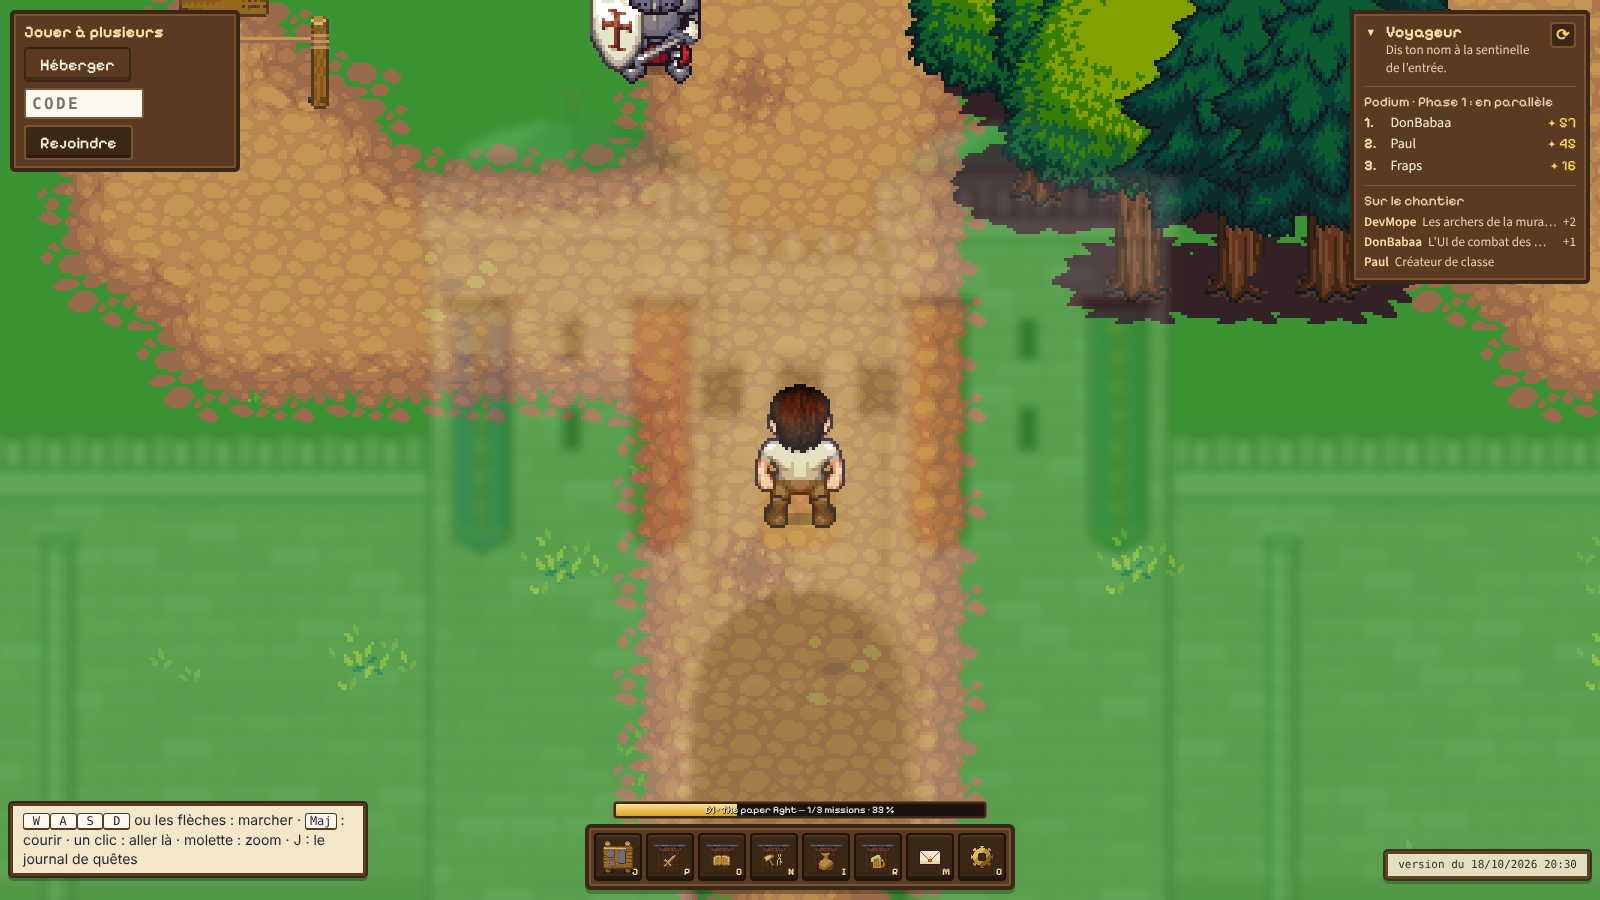
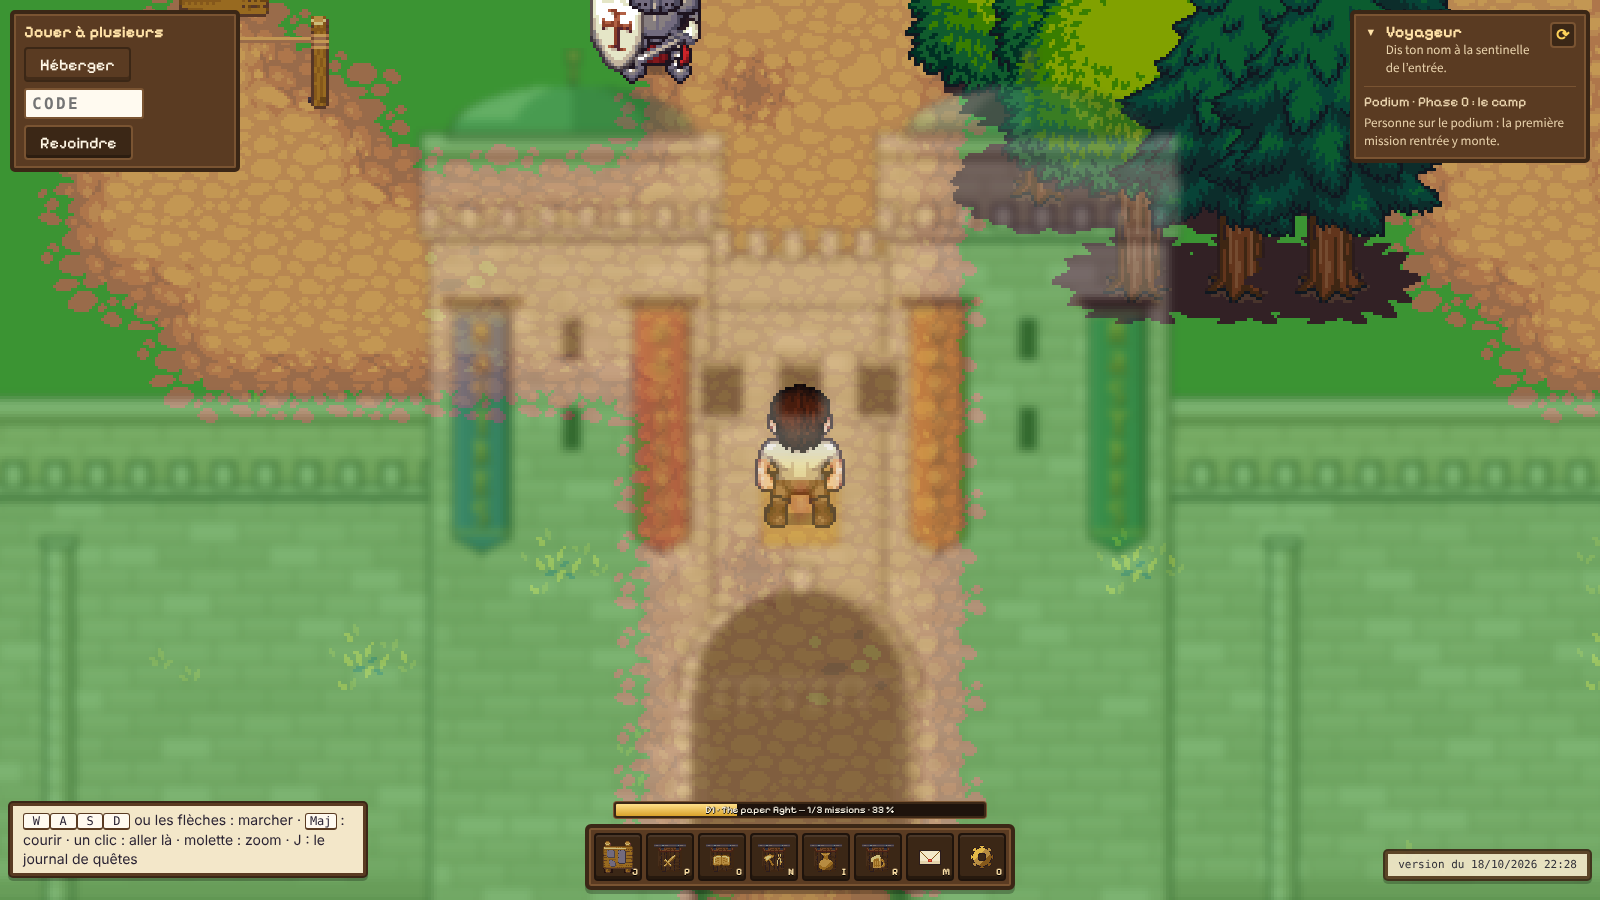
L'entrée du camp : le chemin de ronde vu de dessus
Le sol du chemin de ronde et du dessus des tours est en dalles, vu un peu de dessus, avec un rebord bas et des créneaux courts devant : on verra presque les pieds des archers (#124), pour le relief. Captures du jeu mises à jour ; la maquette avec des archers provisoires (MAQUETTE=dossier) montre l'effet.

Suite de la mission #123 (la porte du camp)

diff --git a/design/camp/outils/muraille.py b/design/camp/outils/muraille.py
@@ -5,8 +5,10 @@
 #   public/assets/lpc/brasero.png    un brasero, 4 images de flamme
 #   src/data/muraille.json           où le jeu pose ces pièces (pixels du monde)
 # Lancer depuis la racine du dépôt : python3 design/camp/outils/muraille.py   (Pillow)
+# MAQUETTE=dossier : dessine aussi des archers de passage (l'éclaireuse du terrain d'entraînement) sur le chemin de ronde,
+# et écrit les images dans ce dossier au lieu du jeu (pour montrer le design avant les vrais archers, #124).
 from PIL import Image
-import json, random
+import json, os, random
 random.seed(7)
 
 T, COLS, ROWS = 32, 42, 38
@@ -133,24 +135,62 @@ def banniere(x, y, h, coul, mot='MASTRES'):
                     px[x + 7 + i, gy + j] = (OR1 if j < 4 else OR0) + (255,)
                     if px[x + 8 + i, gy + j + 1][:3] == coul: px[x + 8 + i, gy + j + 1] = sombre + (255,)
 
-def tour(x, base, w, haut, toit=True, fentes=2, ban=None):
-    prof = 22
+MAQUETTE = os.environ.get('MAQUETTE')
+if MAQUETTE:
+    _arch = Image.open(LPC + 'entrainement/eclaireuse.png').convert('RGBA')
+    ARCHER = [_arch.crop((3 * 64, 18 * 64, 4 * 64, 19 * 64)), _arch.crop((5 * 64, 2 * 64, 6 * 64, 3 * 64))]
+# Un archer debout sur le sol du chemin de ronde : au milieu des dalles (pas sur le rebord), avec son ombre posée sur
+# les dalles ; le rebord et les merlons, dessinés après, cachent le bas de ses jambes.
+def archer(x, pied, salue=False):
+    if not MAQUETTE: return
+    ombre = Image.new('RGBA', (22, 6), (0, 0, 0, 0))
+    po = ombre.load()
+    for j in range(6):
+        for i in range(22):
+            if ((i - 10.5) / 11) ** 2 + ((j - 2.5) / 3) ** 2 <= 1: po[i, j] = (60, 44, 30, 90)
+    coller(ombre, x - 11, pied - 4)
+    coller(ARCHER[salue], x - 32, pied - 61)
+
+# Le sol d'un chemin de ronde vu un peu de dessus (demande de Mope, 18 oct : « voir le sol de l'étage … pour donner du
+# relief ») : des dalles, plus claires au fond (la lumière vient d'en haut), un petit mur bas derrière, côté camp.
+DAL0, DAL1, DAL2, DAL3 = (226, 214, 188), (206, 192, 164), (182, 168, 142), (138, 124, 104)   # les dalles, plus chaudes que le mur
+def dalles(x, y, w, h):
+    cadre(x, y - 6, w, 7, S1); r(x + 1, y - 5, w - 2, 1, S0)                       # le petit mur du fond
+    r(x, y, w, h, DAL1); r(x, y, 1, h, OUT); r(x + w - 1, y, 1, h, OUT)
+    r(x + 1, y + 1, w - 2, 3, DAL3)                                                # son ombre portée sur le sol
+    for k, j in enumerate(range(y + 4, y + h, 6)):
+        fond = j < y + h // 2                                                      # au fond, plus clair (la lumière d'en haut)
+        dec = 0 if k % 2 else 9
+        for i in range(x + 1 + dec - 18, x + w - 1, 18):
+            i0, i1 = max(i, x + 1), min(i + 17, x + w - 1)
+            if i1 - i0 < 2: continue
+            r(i0, j, i1 - i0, 5, DAL0 if fond else DAL1)
+            r(i0, j, i1 - i0, 1, (240, 232, 212) if fond else DAL0)
+            r(i1, j, 1, 5, DAL2)
+        r(x + 1, j + 5, w - 2, 1, DAL2)
+# Le devant : un rebord bas, et des merlons courts : entre eux, on voit le sol, presque jusqu'aux pieds des archers.
+def rebord(x, y, w, pas=14):
+    cadre(x, y, w, 5, S1); r(x + 1, y + 1, w - 2, 1, S0)
+    merlons(x, y + 1, w, pas=pas, mh=8, mw=8)
+
+def tour(x, base, w, haut, toit=True, fentes=2, ban=None, gardes=()):
+    prof = 30
     maconnerie(x, base - haut, w, haut)
     r(x, base - haut, w, 1, OUT); r(x, base - 1, w, 1, OUT); r(x, base - haut, 1, haut, OUT); r(x + w - 1, base - haut, 1, haut, OUT)
     r(x + 1, base - 7, w - 2, 6, S3)
-    cadre(x - 3, base - haut - prof, w + 6, prof - 5, S2)                 # le dessus de la tour (là où se tiendra l'archer, #124)
-    if toit: dome(x + w // 2, base - haut - prof - 2, w // 2 - 8, 16)
-    cadre(x - 3, base - haut - 9, w + 6, 10, S1); r(x - 2, base - haut - 8, w + 4, 2, S0)   # le parapet devant
-    merlons(x - 3, base - haut - 8, w + 6, pas=13)
+    dalles(x - 3, base - haut - prof, w + 6, prof - 4)                    # le dessus de la tour (là où se tiendra l'archer, #124)
+    if toit: dome(x + w // 2, base - haut - prof - 6, w // 2 - 8, 16)
+    for gx, s in gardes: archer(x + gx, base - haut - 12, s)
+    rebord(x - 3, base - haut - 5, w + 6, pas=13)
     debut = 98 if ban else 26
     for k in range(fentes): fente(x + w // 2 - 3, base - haut + debut + k * 30)
     if ban: banniere(x + w // 2 - 10, base - haut + 8, 78, ban)
 
-def courtine(a, b, base, hm):
-    # le chemin de ronde (vu de dessus), puis le parapet crénelé devant, puis la façade et ses contreforts
-    cadre(a, base - hm - 22, b - a, 14, S2); r(a + 1, base - hm - 21, b - a - 2, 2, S3)
-    cadre(a, base - hm - 10, b - a, 11, S1); r(a + 1, base - hm - 9, b - a - 2, 2, S0)
-    merlons(a, base - hm - 10, b - a)
+def courtine(a, b, base, hm, gardes=()):
+    # le chemin de ronde (son sol vu de dessus), les archers, puis le rebord crénelé devant, puis la façade et ses contreforts
+    dalles(a, base - hm - 28, b - a, 24)
+    for gx, s in gardes: archer(gx, base - hm - 13, s)
+    rebord(a, base - hm - 5, b - a)
     maconnerie(a, base - hm, b - a, hm)
     r(a, base - hm, b - a, 1, OUT); r(a, base - 1, b - a, 1, OUT); r(a, base - 8, b - a, 7, S3)
     for xx in range(a + 40, b - 30, 4 * T): contrefort(xx, base, hm - 16)
@@ -158,14 +198,14 @@ def courtine(a, b, base, hm):
 porte_g, porte_d = cx - 2 * T - 52, cx + 2 * T + 52
 for xa in (-10, W - 70):                                       # les tours d'angle, à moitié dans la forêt
     tour(xa, BASE + 4, 80, HM + T, toit=True, fentes=1)
-courtine(60, porte_g, BASE, HM)
-courtine(porte_d, W - 60, BASE, HM)
+courtine(60, porte_g, BASE, HM, gardes=[(6 * T, False)])
+courtine(porte_d, W - 60, BASE, HM, gardes=[(27 * T + 16, True)])
 for col, ban in [(24, (194, 65, 47)), (31, (47, 104, 184)), (38, (142, 92, 194))]:   # les 3 tours de guet, côté droit
     tour(col * T - 8, BASE + 6, 2 * T + 16, HM + 2 * T, fentes=2, ban=ban)
 
 # la grande porte : deux tours à dôme vert, la galerie à trois baies, l'écusson à la flamme, la voûte et sa herse relevée
-for xt in (porte_g - 8, porte_d - 3 * T + 8):
-    tour(xt, BASE + 10, 3 * T, HP, fentes=2)
+for xt, g in ((porte_g - 8, [(48, True)]), (porte_d - 3 * T + 8, [(48, False)])):
+    tour(xt, BASE + 10, 3 * T, HP, fentes=2, gardes=g)
 gx0, gx1 = porte_g - 8 + 3 * T, porte_d - 3 * T + 8
 hc = HM + 2 * T
 maconnerie(gx0, BASE - hc, gx1 - gx0, hc); r(gx0, BASE - hc, gx1 - gx0, 1, OUT)
@@ -215,14 +255,15 @@ for k in range(4):
 
 # ---------------- sortie : on découpe chaque calque à ce qu'il contient
 haut_mur = mur.getbbox()[1]
-mur.crop((0, haut_mur, W, D1 + 6)).save(LPC + 'muraille.png', optimize=True)
+SORTIE = (MAQUETTE + '/') if MAQUETTE else LPC
+mur.crop((0, haut_mur, W, D1 + 6)).save(SORTIE + 'muraille.png', optimize=True)
 haut_sol = sol.getbbox()[1]
-sol.crop((0, haut_sol, W, H)).save(LPC + 'douves.png', optimize=True)
-bras.save(LPC + 'brasero.png', optimize=True)
+sol.crop((0, haut_sol, W, H)).save(SORTIE + 'douves.png', optimize=True)
+bras.save(SORTIE + 'brasero.png', optimize=True)
 pos = {
     'muraille': {'y': haut_mur, 'pied': BASE},
     'douves': {'y': haut_sol},
     'braseros': [[cx - 70, D1 + 14], [cx + 70, D1 + 14]],   # [milieu, haut] de chaque brasero ; son pied est 38 px plus bas
 }
-open('src/data/muraille.json', 'w').write(json.dumps(pos) + '\n')
+open(SORTIE + 'muraille.json' if MAQUETTE else 'src/data/muraille.json', 'w').write(json.dumps(pos) + '\n')
 print('muraille', mur.width, D1 + 6 - haut_mur, 'à y =', haut_mur, '; douves à y =', haut_sol)

diff --git a/GAME_SPEC.md b/GAME_SPEC.md
@@ -156,7 +156,7 @@ Moved into scope on 17 Oct: Paolitus's training mini-game, as a **turn-based** r
 | 18 Oct | **The training ground together (#80):** a camp group enters together (E at the door; the camp host becomes the training host, same code). Lobby: each player takes one or more hero places and picks their classes; the host picks the turn mode, starts, and plays the places nobody took. In the fight the host holds the rules and dice; the others send their actions; each plays only their own heroes and sees the others' pointer with what they prepare (the combo shows before it is played). The heroes' phase ends when everyone with a hero standing has said "ready"; no undo then (`FIGHT_RULES.md`, "A turn"). A friend who leaves: the host plays their heroes until they are back; the host leaves: everyone carries on alone | Paul (Paolitus): « si on est dans une session multi on peut entrer dans le lobby à plusieurs et choisir sa classe » | |
 | 18 Oct | **Health bars over heads** at the training ground: name and health of each creature, V for the enemies, Shift+V for the allies, off until asked, remembered in the browser | Paul (Paolitus): « une barre de vie/name plates activables avec V pour les ennemis et shift V pour les alliés » | |
 | 18 Oct | **The Deadlock radio at the camp (#94):** a new NPC, the bard, sits by the fire (west side) with a medieval lyre and a speaker that plays DEADLOCK RECORDS RADIO, exported from Mastres Racing (engine unchanged). Heard everywhere in the camp, louder near the speaker (full within 2.5 squares, 18 % beyond 15); live on the world clock; starts at the first gesture and keeps playing in a hidden tab (no jump on return); E or a click on the bard: previous song, next song, off. In a camp group everyone hears the host's radio (his clock and skips), and a song skipped by anyone is skipped for the whole group. The 27 tracks (94 MB) are in the repo and online, with the band's agreement; ElevenLabs voices credited. The bard's lines and look are provisional | Paul (Paolitus): « Arrivée radio deadlock sur le camp […] designer un nouveau perso : barde avec une lyre médiévale et une enceinte à côté de lui qui diffuse les sons » ; près du feu, plus fort près du barde, les mp3 dans le repo | the Settings menu (music, effects) is #95 |
-| 18 Oct | **The camp's entrance (#123), built:** the camp grows 10 rows south (42 × 38) for a white stone wall (4 squares high, 3 watchtowers on the right only), a great gate at the end of the path (two domed towers, an arch, the portcullis up), a moat with a lowered drawbridge, and a paved road. Once through the gate the wall fades with distance: nearly sharp and 70 % opaque right behind it, blurrier and fainter further north, gone 9 squares from its foot, back the same way when coming closer (Mope, 18 Oct: « quasi pas de floue collé à la muraille … jusqu'à disparaitre »). Four LPC archers (one per gate tower, one on each side of the wall) salute every hero going in or out. The forest wraps the wall's ends. Banners read « MASTRES » vertically in gothic letters. Mock-up v4, validated by Mope, in `CAMP.fr.md` §4. In the game: the wall, gate, moat, bridge, road and braziers (`src/32_muraille.js`, art from `design/camp/outils/muraille.py`); the archers come with #124 | Mope: « une entrée majestueuse, un peu comme la cité de Minas Tirith » ; « de l'eau et un pont levis » ; « 3/4 [archers] suffisent » ; « la muraille se floute/devient fantôme » ; « MASTRES » sur les bannières ; « design validé » ; for the enlargement: « c'est moi qui te dit si t'as le droit ou pas » (Mope decides for the camp) | no |
+| 18 Oct | **The camp's entrance (#123), built:** the camp grows 10 rows south (42 × 38) for a white stone wall (4 squares high, 3 watchtowers on the right only), a great gate at the end of the path (two domed towers, an arch, the portcullis up), a moat with a lowered drawbridge, and a paved road. Once through the gate the wall fades with distance: nearly sharp and 70 % opaque right behind it, blurrier and fainter further north, gone 9 squares from its foot, back the same way when coming closer (Mope, 18 Oct: « quasi pas de floue collé à la muraille … jusqu'à disparaitre »). Four LPC archers (one per gate tower, one on each side of the wall) salute every hero going in or out. The forest wraps the wall's ends. Banners read « MASTRES » vertically in gothic letters. The wall walk and the tower tops are seen slightly from above (a flagstone floor, a low ledge, short crenels) so the archers stand on a visible floor (Mope, 18 Oct: « voir le sol de l'étage … impression de 3D »). Mock-up v4, validated by Mope, in `CAMP.fr.md` §4. In the game: the wall, gate, moat, bridge, road and braziers (`src/32_muraille.js`, art from `design/camp/outils/muraille.py`); the archers come with #124 | Mope: « une entrée majestueuse, un peu comme la cité de Minas Tirith » ; « de l'eau et un pont levis » ; « 3/4 [archers] suffisent » ; « la muraille se floute/devient fantôme » ; « MASTRES » sur les bannières ; « design validé » ; for the enlargement: « c'est moi qui te dit si t'as le droit ou pas » (Mope decides for the camp) | no |
 | 18 Oct | **The training ground's combat UI from the mockups (#129, design in `design/ui-combat/`, #113):** the abilities bar shows each ability's LPC icon, action or bonus, and its hit damage (or what it does); hovering an ability in the bar, or choosing it, opens its sheet above the bar, with no target needed: miss, graze, hit and critical damage and the d20 that lead to each, range, area, cost, d20 bonus and effects (#85); hovering a creature with an attack chosen shows a target card with the chances of each result in % and their damage. The bar, the sheet and the target card are dark wood; the hero cards keep parchment, with health and resource on one line. Zoom (#83) and dialogue skipping (#84) are not in it | the owner: « pourquoi je la vois pas implémentée in game ? … code le truc » ; the mockups he approved (#113) | |
 | 18 Oct | **Ability effects in the training ground's fights (#134):** the 42 bricks of the animation library (#127) play in combat as sprites placed by their anchor: projectiles (Spark, Fire Arrow, arrows, Splash, Oil Flask, notes, the mocking bubble), impacts, weapon trails (slash, heavy slash, thrust), the lightning strike, spreading puddles and ice spikes, the rain cloud, healing crosses and light columns, the rally ring; and the states loop on the creatures while they last (Soaked, Oiled, Burning, Frozen, Exposed, Prone, Inspired). The attack scene lasts until the hit lands, so the damage numbers show on impact. Enemies use the same arrows and slashes | the owner: « pourquoi les effets/animations qu’on a créé ne sont pas ingame ? push ça » | |
 | 19 Oct | **How the base game plays (the prototype):** no free exploration. A run goes **straight from fight room to fight room**, Slay the Spire style (a map of rooms, each one a fight arena), and **short cutscenes link the rooms and the levels**. The fight is the training ground's system (without squares, `FIGHT_RULES.md` « On trial »); the training ground stays the draft where the system is tried. **Every level has its own design and identity** (tiles, layout, enemies, light), never the training ground renamed. The base game is entered from the camp through a **dedicated entrance, built later**; until then `donjon.html`. The paper fight is skipped: the digital fights settle what it was for | owner, 19 Oct: « Le terrain d'entrainement est un draft pour essayer le système. Chaque niveau aura son design et identite differente », « aller directement en salle de combat comme slay the spire », « De petites cinematiques relieront les differentes salles et niveau » | |

diff --git a/CAMP.fr.md b/CAMP.fr.md
@@ -127,6 +127,7 @@ Un lieu par axe du plan. **Les noms sont provisoires :** les lieux du camp font 
 - **D'après les références de Mope** (Minas Tirith : la ville blanche, sa grande porte, ses remparts) : le camp a une entrée majestueuse au sud, là où le sentier sort aujourd'hui de la lisière.
 - **Le camp s'agrandit de 10 rangées au sud (42 × 38 cases).** La muraille a sa propre bande, sous tous les lieux : elle ne cache rien du camp. La lisière sud disparaît ; à l'ouest et à l'est, la forêt descend jusqu'en bas et avale les bouts de la muraille.
 - **La muraille :** pierre blanche, 4 cases de façade, créneaux, chemin de ronde et contreforts. Elle finit de chaque côté sur une tour d'angle à moitié cachée dans les arbres. **Trois tours de guet, à droite seulement,** avec un dôme vert et une bannière.
+- **Le chemin de ronde vu un peu de dessus** (demandé par Mope le 18 oct, « pour donner du relief ») : son sol est en dalles, plus claires au fond, avec un petit mur côté camp ; devant, un rebord bas et des créneaux courts, entre lesquels on voit presque les pieds des archers. Le dessus des tours est fait pareil. Les archers (#124) se tiendront au milieu des dalles, avec une ombre, le rebord devant leurs jambes.
 - **La grande porte,** au bout du sentier (la même colonne qu'aujourd'hui) : deux tours plus hautes à dômes verts, une voûte en plein cintre, la herse relevée, une galerie à trois baies et un blason doré (une flamme, le feu du camp). Des bannières aux couleurs des axes sur les tours, avec « MASTRES » écrit à la verticale en lettres gothiques dorées.
 - **Les douves et le pont-levis :** deux cases d'eau au pied de la muraille ; le pont-levis abaissé, avec ses chaînes, est le seul passage. Au-delà, une route pavée entre deux braseros.
 - **La muraille fantôme, en fondu selon la distance** (demandé par Mope le 18 oct) : une fois la porte passée vers le nord, la muraille s'estompe. Collé à elle, sous la voûte, elle est presque nette et un peu transparente (70 %, on voit le héros passer) ; plus on s'éloigne, plus elle est floue et pâle, jusqu'à disparaître à 9 cases de son pied ; elle revient de la même façon quand on se rapproche, et redevient pleine quand on ressort.
@@ -134,7 +135,7 @@ Un lieu par axe du plan. **Les noms sont provisoires :** les lieux du camp font 
 - **L'art :** dessiné pixel par pixel dans le style LPC (contour sombre, lumière en haut à gauche, rampe de pierre blanche), comme le panneau-carte ; l'eau, les arbres et les personnages sont des pièces LPC, crédités dans `CREDITS.md`.
 - **Dans le jeu :** `src/32_muraille.js` pose la muraille (une seule image, triée sur son pied) et l'estompe dès que le héros passe sous la voûte ; les pièces (`muraille.png`, `douves.png`, `brasero.png`) sont faites par `design/camp/outils/muraille.py`. La muraille et l'eau bloquent sur les rangées 31 à 34, sauf les colonnes 14 et 15 (la porte et le pont). Le point nommé `porte` est sur la route, `entree` juste après la porte.
 - **Vérifié** dans `?test` : la muraille et les douves bloquent partout sauf à la porte ; on va à pied de la route au feu par le pont et la porte ; la muraille est pleine dehors et en visite ; dedans, elle a disparu au feu, et en revenant vers elle (8, 5, 2,5 puis 0,8 case) elle est à chaque pas plus visible et moins floue ; elle redevient pleine quand on ressort.
-- **La maquette** (v4, validée par Mope le 18 oct, agrandissement compris) est dans `design/camp/entree/` : la porte, l'arrivée avec la muraille fantôme, et le camp entier ; à côté, les mêmes vues prises dans le jeu (5 à 7).
+- **La maquette** (v4, validée par Mope le 18 oct, agrandissement compris) est dans `design/camp/entree/` : la porte, l'arrivée avec la muraille fantôme, et le camp entier ; à côté, les mêmes vues prises dans le jeu (5 à 7), le flou progressif (8) et le chemin de ronde vu de dessus avec des archers provisoires (9, `MAQUETTE=dossier python3 design/camp/outils/muraille.py`).
 
 ### Comment un lieu grandit
 - **Les points :** chaque mission fermée de l'axe rapporte S = 1, M = 3, L = 8.
